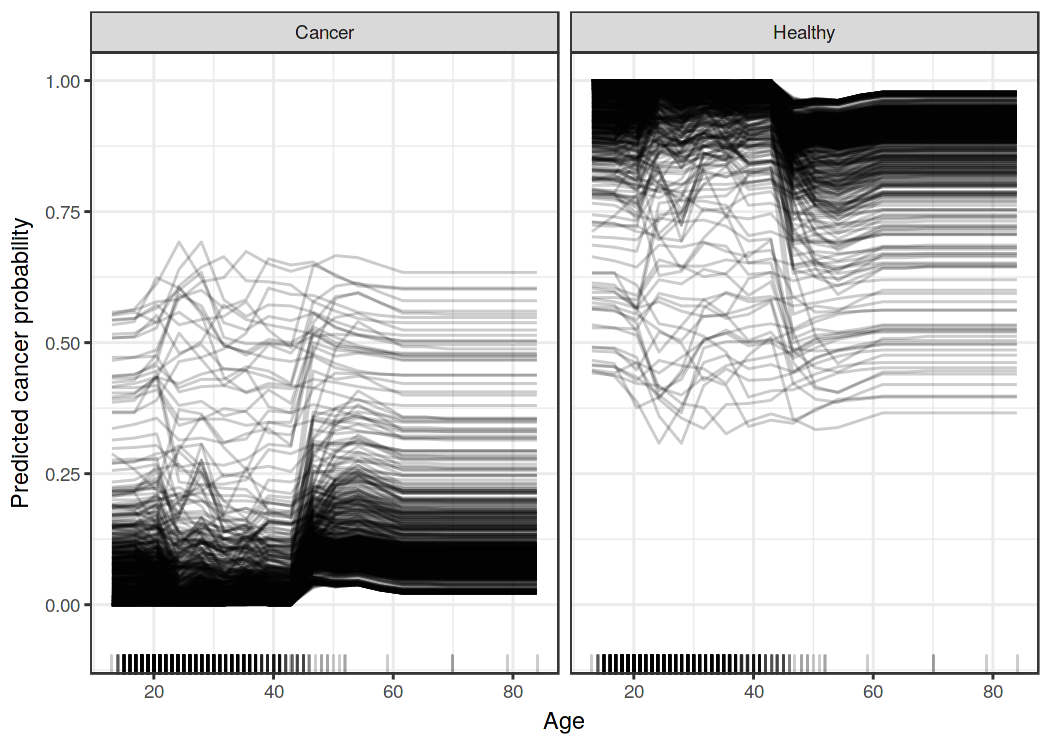
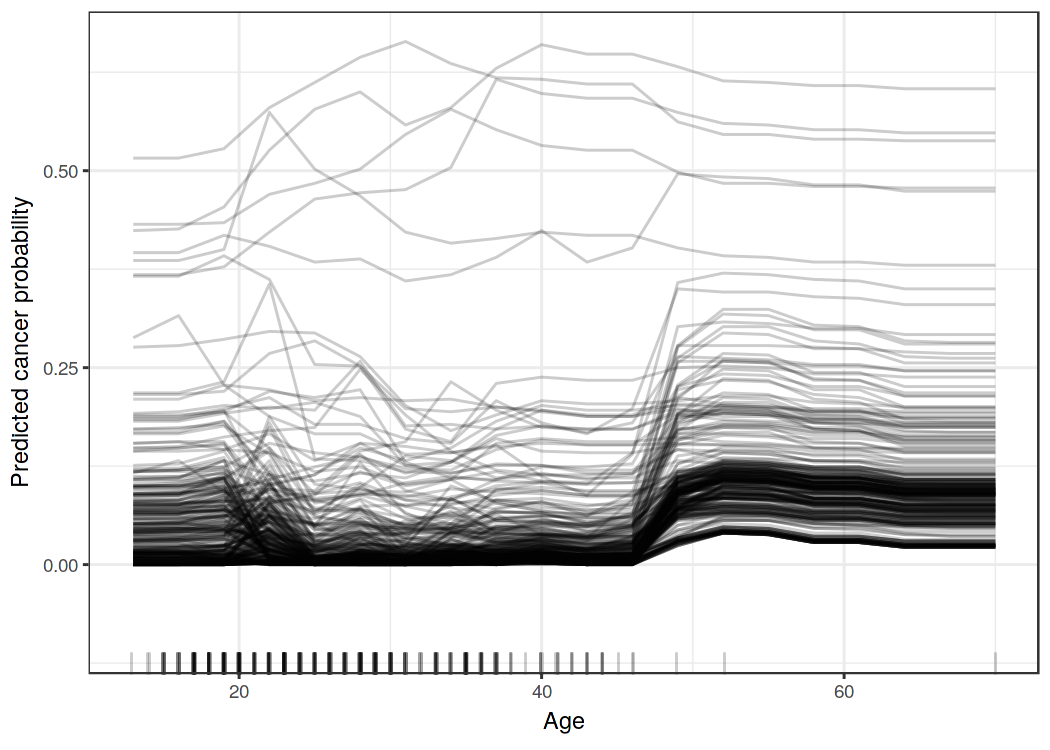
publish

diff --git a/manuscript/05.3-agnostic-ice.md b/manuscript/05.3-agnostic-ice.md
@@ -4,84 +4,81 @@
 
 ## Individual Conditional Expectation (ICE) {#ice}
 
-Individual Conditional Expectation (ICE) plots draw a line per instance that shows how the instance's prediction changes when a feature changes. 
+Individual Conditional Expectation (ICE) plots display one line per instance that shows how the instance's prediction changes when a feature changes. 
 
 The partial dependence plot for the average effect of a feature is a global method because it does not focus on specific instances, but on an overall average.
 The equivalent to a PDP for individual data instances is called individual conditional expectation (ICE) plot (Goldstein et al. 2015[^Goldstein2015]).
-An ICE plot visualizes the dependence of the prediction on a feature for *each* instance separately, resulting in multiple lines, one for each instance, compared to one line in partial dependence plots.
+An ICE plot visualizes the dependence of the prediction on a feature for *each* instance separately, resulting in one line per instance, compared to one line overall in partial dependence plots.
 A PDP is the average of the lines of an ICE plot.
 The values for a line (and one instance) can be computed by keeping all other features the same, creating variants of this instance by replacing the feature's value with values from a grid and making predictions with the black box model for these newly created instances.
 The result is a set of points for an instance with the feature value from the grid and the respective predictions.
 
-So, what's the point of looking at individual expectations instead of partial dependencies?
+What's the point of looking at individual expectations instead of partial dependencies?
 Partial dependence plots can obscure a heterogeneous relationship created by interactions.
 PDPs can show you what the average relationship between a feature and the prediction looks like.
 This only works well if the interactions between the features for which the PDP is calculated and the other features are weak.
 In case of interactions, the ICE plot will provide much more insight.
 
 A more formal definition:
-In ICE plots, for each instance in {$$}\{(x_{S_i},x_{C_i})\}_{i=1}^N{/$$} the curve {$$}\hat{f}_S^{(i)}{/$$} is plotted against {$$}x^{(i)}_{S}{/$$}, while {$$}x^{(i)}_{C}{/$$} remains  fixed.
+In ICE plots, for each instance in {$$}\{(x_{S}^{(i)},x_{C}^{(i)})\}_{i=1}^N{/$$} the curve {$$}\hat{f}_S^{(i)}{/$$} is plotted against {$$}x^{(i)}_{S}{/$$}, while {$$}x^{(i)}_{C}{/$$} remains  fixed.
 
 ### Examples
 
-Let us go back to the [cervical cancer dataset](#cervical) and see how the prediction of each instance is associated with the feature 'Age'.
-The model we will analyze is a random forest that predicts the probability of cancer for a woman given risk factors.
+Let's go back to the [cervical cancer dataset](#cervical) and see how the prediction of each instance is associated with the feature "Age".
+We will analyze a random forest that predicts the probability of cancer for a woman given risk factors.
 In the [partial dependence plot](#pdp) we have seen that the cancer probability increases around the age of 50, but is this true for every woman in the dataset?
 The ICE plot reveals that for most women the age effect follows the average pattern of an increase at age 50, but there are some exceptions:
 For the few women that have a high predicted probability at a young age, the predicted cancer probability does not change much with age.
 
-![Individual conditional expectation plot of cervical cancer probability by age. Each line represents one woman. Most women with a low cancer probability in younger years see an increase in predicted cancer probability. Interestingly for some women with an estimated cancer probability greater than 0.4, the estimated probability does not change much with higher age.](images/ice-cervical-1.png)
+![ICE plot of cervical cancer probability by age. Each line represents one woman. For most women there is an increase in predicted cancer probability with increasing age. For some women with a predicted cancer probability above 0.4, the prediction does not change much at higher age.](images/ice-cervical-1.png)
 
-The next figures shows an ICE plot for the [bike rental prediction](#bike-data).
+The next figures shows ICE plots for the [bike rental prediction](#bike-data).
 The underlying prediction model is a random forest.
 
-![Individual conditional expectation plot of predicted bike count and weather conditions. The same effects can be observed as in the partial dependence plots.](images/ice-bike-1.png)
+![ICE plots of predicted bicycle rentals by weather conditions. The same effects can be observed as in the partial dependence plots.](images/ice-bike-1.png)
 
 All curves seem to follow the same course, so there are no obvious interactions.
 That means that the PDP is already a good summary of the relationships between the displayed features and the predicted number of bicycles
 
-
-
-
 #### Centered ICE Plot
 
 There is a problem with ICE plots:
-It can be hard to tell if the individual conditional expectation curves differ between individuals because they start at different predictions.
-A simple solution is to center the curves at a certain point in the feature and  display only the difference in the prediction.
-The resulting plot is called the centered ICE plot (c-ICE).
+Sometimes it can be hard to tell whether the ICE curves differ between individuals because they start at different predictions.
+A simple solution is to center the curves at a certain point in the feature and  display only the difference in the prediction to this point.
+The resulting plot is called centered ICE plot (c-ICE).
 Anchoring the curves at the lower end of the feature is a good choice.
 The new curves are defined as:
 
-{$$}\hat{f}_{cent}^{(i)}=\hat{f}^{(i)}-\mathbf{1}\hat{f}(x^{\text{*}},x^{(i)}_{C}){/$$}
+{$$}\hat{f}_{cent}^{(i)}=\hat{f}^{(i)}-\mathbf{1}\hat{f}(x^{a},x^{(i)}_{C}){/$$}
 
-where {$$}\mathbf{1}{/$$} is a vector of 1's with the appropriate number of dimensions (usually one or two), {$$}\hat{f}{/$$} is the fitted model and {$$}x^{\text{*}}{/$$} is the anchor point.
+where {$$}\mathbf{1}{/$$} is a vector of 1's with the appropriate number of dimensions (usually one or two), {$$}\hat{f}{/$$} is the fitted model and x^a^ is the anchor point.
 
 #### Example
 
 For example, take the cervical cancer ICE plot for age and center the lines on the youngest observed age:
 
-![Centered ICE plot for predicted  cancer probability by age. Lines are fixed to 0 at age 13 and each point shows the difference to the prediction at age 13. Compared to age 18, the predictions for most instances remain unchanged and see an increase of up to 20 %. A few cases show the opposite behavior: The predicted probability decreases with increasing age.](images/ice-cervical-centered-1.png)
+![Centered ICE plot for predicted  cancer probability by age. Lines are fixed to 0 at age 13. Compared to age 13, the predictions for most women remain unchanged until the age of 45 where the predicted probability increases.](images/ice-cervical-centered-1.png)
 
 The centered ICE plots make it easier to compare the curves of individual instances.
-This can be useful if we don't want to see the absolute change of a predicted value, but the difference in prediction compared to a fixed point of the feature range.
+This can be useful if we don't want to see the absolute change of a predicted value, but the difference in the prediction compared to a fixed point of the feature range.
 
-The same for the bicycle dataset and the count prediction model:
+Let's have a look at centered ICE plots for the bicycle rental prediction:
 
-![Centred individual conditional expectation plots of expected bike count by weather condition. The lines were fixed at value 0 for each feature and instance. The lines show the difference in prediction compared to the prediction with the respective feature value at its minimum feature value in the data.](images/ice-bike-centered-1.png)
+![Centered ICE plots of predicted number of bikes by weather condition. The lines show the difference in prediction compared to the prediction with the respective feature value at its observed minimum.](images/ice-bike-centered-1.png)
 
 #### Derivative ICE Plot
 
 Another way to make it visually easier to spot heterogeneity is to look at the individual derivatives of the prediction function with respect to a feature.
 The resulting plot is called the derivative ICE plot (d-ICE).
-The derivatives of a function (or curve) tell you in which direction changes occur and whether they occur at all.
+The derivatives of a function (or curve) tell you whether changes occur and in which direction they occur.
 With the derivative ICE plot, it is easy to spot ranges of feature values where the black box predictions change for (at least some) instances.
-If there is no interaction between the analyzed feature (S) and the other features (C), then the prediction function can be expressed as:
+If there is no interaction between the analyzed feature x~S~ and the other features x~C~, then the prediction function can be expressed as:
 
 {$$}\hat{f}(x)=\hat{f}(x_S,x_C)=g(x_S)+h(x_C),\quad\text{with}\quad\frac{\delta\hat{f}(x)}{\delta{}x_S}{/$$}
 
 Without interactions, the individual partial derivatives should be the same for all instances.
 If they differ, it is due to interactions and it becomes visible in the d-ICE plot.
-In addition to displaying the individual curves for the derivative of the prediction function with respect to the feature S, showing the standard deviation of the derivative helps to highlight regions in feature S with heterogeneity in the estimated derivatives.
+In addition to displaying the individual curves for the derivative of the prediction function with respect to the feature x~S~, showing the standard deviation of the derivative helps to highlight regions in feature x~S~ with heterogeneity in the estimated derivatives.
 The derivative ICE plot takes a long time to compute and is rather impractical.
 
 
@@ -90,7 +87,7 @@ The derivative ICE plot takes a long time to compute and is rather impractical.
 Individual conditional expectation curves are **even more intuitive to understand** than partial dependence plots.
 One line represents the predictions for one instance if we vary the feature of interest. 
 
-Unlike partial dependence plots ICE curves can **uncover heterogeneous relationships**.
+Unlike partial dependence plots, ICE curves can **uncover heterogeneous relationships**.
 
 ### Disadvantages 
 
@@ -104,7 +101,7 @@ The solution: Either add some transparency to the lines or draw only a sample of
 
 In ICE plots it might not be easy to **see the average**. 
 This has a simple solution:
-Simply combine individual conditional expectation curves with the partial dependence plot.
+Combine individual conditional expectation curves with the partial dependence plot.
 
 ### Software and Alternatives
 
@@ -113,3 +110,4 @@ Another R package that does something very similar to ICE is `condvis`.
 
 
 
+[^Goldstein2015]: Goldstein, Alex, et al. "Package ‘ICEbox’." (2017).

diff --git a/manuscript/10-references.md b/manuscript/10-references.md
@@ -15,25 +15,41 @@ Athalye, A., Engstrom, L., Ilyas, A., & Kwok, K. (2017). Synthesizing Robust Adv
 
 Biggio, B., & Roli, F. (2017). Wild Patterns: Ten Years After the Rise of Adversarial Machine Learning, 32–37. Retrieved from http://arxiv.org/abs/1712.03141
 
+Breiman, Leo. 2001. “Random Forests.” Machine Learning 45 (1). Springer: 5–32.
+
 Brown, T. B., Mané, D., Roy, A., Abadi, M., & Gilmer, J. (2017). Adversarial Patch, (Nips). Retrieved from http://arxiv.org/abs/1712.09665
 
 Cohen, W. (1995). Fast effective rule induction. Icml. Retrieved from http://www.inf.ufrgs.br/~alvares/CMP259DCBD/Ripper.pdf
 
 Cook, R. Dennis. "Detection of influential observation in linear regression." Technometrics 19.1 (1977): 15-18.
 
+Doshi-Velez, Finale, and Been Kim. 2017. "Towards A Rigorous Science of Interpretable Machine Learning," no. Ml: 1–13. http://arxiv.org/abs/1702.08608.
+
 Fanaee-T, Hadi, and Joao Gama. 2013. “Event Labeling Combining Ensemble Detectors and Background Knowledge.” Progress in Artificial Intelligence. Springer Berlin Heidelberg, 1–15. doi:10.1007/s13748-013-0040-3.
 
 Fernandes, Kelwin, Jaime S Cardoso, and Jessica Fernandes. 2017. “Transfer Learning with Partial Observability Applied to Cervical Cancer Screening.” In Iberian Conference on Pattern Recognition and Image Analysis, 243–50. Springer.
 
+Fisher, Aaron, Cynthia Rudin, and Francesca Dominici. 2018. “Model Class Reliance: Variable Importance Measures for any Machine Learning Model Class, from the ‘Rashomon’ Perspective.” http://arxiv.org/abs/1801.01489.
+
 Fokkema, Marjolein, and Benjamin Christoffersen. 2017. Pre: Prediction Rule Ensembles. https://CRAN.R-project.org/package=pre.
+
+Friedman, Jerome H, and Bogdan E Popescu. 2008. “Predictive Learning via Rule Ensembles.” The Annals of Applied Statistics. JSTOR, 916–54.
+
+Friedman, Jerome H. "Greedy function approximation: a gradient boosting machine." Annals of statistics (2001): 1189-1232.
 
 Friedman, Jerome, Trevor Hastie, and Robert Tibshirani. "The Elements of Statistical Learning". 2009. www.web.stanford.edu/~hastie/ElemStatLearn/
 
 Fuernkranz, J., Gamberger, D., & Lavrač, N. (2012). Foundations of Rule Learning. Foundations of Rule Learning. https://doi.org/10.1007/978-3-540-75197-7_2
 
+Goldstein, Alex, et al. "Package ‘ICEbox’." (2017).
+
 Goodfellow, I. J., Shlens, J., & Szegedy, C. (2014). Explaining and Harnessing Adversarial Examples, 1–11. http://doi.org/10.1109/CVPR.2015.7298594
 
+Greenwell, Brandon. M., Boehmke, B. C., & McCarthy, A. J. (2018). A Simple and Effective Model-Based Variable Importance Measure, 1–27. Retrieved from http://arxiv.org/abs/1805.04755
+
 Heider, Fritz, and Marianne Simmel. 1944. "An Experimental Study of Apparent Behavior." The American Journal of Psychology 57 (2). JSTOR: 243–59.
+
+Hooker, Giles (2004). Discovering Additive Structure in Black Box Functions. Knowledge Discovery and Data Mining, 575–580. http://doi.org/10.1145/1014052.1014122
 
 Kahneman, Daniel, and Amos Tversky. 1981. "The Simulation Heuristic." STANFORD UNIV CA DEPT OF PSYCHOLOGY.
 
@@ -49,7 +65,15 @@ Laugel, T., Lesot, M.-J., Marsala, C., Renard, X., & Detyniecki, M. (2017). Inve
 
 Letham, B., Rudin, C., McCormick, T. H., & Madigan, D. (2015). Interpretable classifiers using rules and bayesian analysis: Building a better stroke prediction model. Annals of Applied Statistics, 9(3), 1350–1371. https://doi.org/10.1214/15-AOAS848
 
+Lipton, Peter. "Contrastive Explanation." Royal Institute of Philosophy Supplements 27 (1990): 247-266.
+
+Lipton, Zachary C. "The Mythos of Model Interpretability." arXiv preprint arXiv:1606.03490, 2016.
+
+Lundberg, Scott, and Su-In Lee. 2016. “An unexpected unity among methods for interpreting model predictions,” no. Nips: 1–6. http://arxiv.org/abs/1611.07478.
+
 Martens, D., & Provost, F. (2014). Explaining Data-Driven Document Classifications. MIS Quarterly, 38(1), 73–99. http://doi.org/10.25300/MISQ/2014/38.1.04
+
+Miller, Tim. 2017. "Explanation in Artificial Intelligence: Insights from the Social Sciences." arXiv Preprint arXiv:1706.07269.
 
 Nickerson, Raymond S. 1998. "Confirmation Bias: A Ubiquitous Phenomenon in Many Guises." Review of General Psychology 2 (2). Educational Publishing Foundation: 175.
 
@@ -57,9 +81,19 @@ Papernot, Nicolas, et al. "Practical black-box attacks against machine learning.
 
 R. C. Holte (1993). Very simple classification rules perform well on most commonly used datasets. Machine Learning, 11, 63–91.
 
+Ribeiro, M.T., Singh, S. and Guestrin, C., 2016, August. Why should i trust you?: Explaining the predictions of any classifier. In Proceedings of the 22nd ACM SIGKDD International Conference on Knowledge Discovery and Data Mining (pp. 1135-1144). ACM.
+
 Ribeiro, Marco Tulio, Sameer Singh, and Carlos Guestrin (2018). "Anchors: High-precision model-agnostic explanations." AAAI Conference on Artificial Intelligence.
 
+Ribeiro, Marco Tulio, Sameer Singh, and Carlos Guestrin. 2016. "Model-Agnostic Interpretability of Machine Learning." ICML Workshop on Human Interpretability in Machine Learning, no. Whi.
+
+Shapley, Lloyd S. 1953. “A Value for N-Person Games.” Contributions to the Theory of Games 2 (28): 307–17.
+
 Staniak, Mateusz and Przemyslaw Biecek (2018). "Explanations of Model Predictions with live and breakDown Packages." _ArXiv e-prints_. 1804.01955, <URL: https://arxiv.org/abs/1804.01955>.
+
+Strumbelj, Erik, Igor Kononenko, Erik Štrumbelj, and Igor Kononenko. 2014. “Explaining prediction models and individual predictions with feature contributions.” Knowledge and Information Systems 41 (3): 647–65. doi:10.1007/s10115-013-0679-x.
+
+Su, J., Vargas, D. V., & Kouichi, S. (2017). One pixel attack for fooling deep neural networks. Retrieved from http://arxiv.org/abs/1710.08864
 
 Szegedy, C., Zaremba, W., Sutskever, I., Bruna, J., Erhan, D., Goodfellow, I., & Fergus, R. (2013). Intriguing properties of neural networks, 1–10. http://doi.org/10.1021/ct2009208
 
@@ -68,6 +102,8 @@ Wachter, S., Mittelstadt, B., & Russell, C. (2017). Counterfactual Explanations 
 Yang, H., Rudin, C., & Seltzer, M. (2016). Scalable Bayesian Rule Lists, 31. Retrieved from http://arxiv.org/abs/1602.08610
 
 Zhao, Qingyuan, and Trevor Hastie. "Causal interpretations of black-box models." Journal of Business & Economic Statistics, to appear. A DEPTH AND EXPOSURE TIME (2017).
+
+Štrumbelj, Erik, and Igor Kononenko. 2011. "A General Method for Visualizing and Explaining Black-Box Regression Models." In International Conference on Adaptive and Natural Computing Algorithms, 21–30. Springer.
 
 **R Packages Used for Examples**
 

diff --git a/manuscript/02-interpretability.md b/manuscript/02-interpretability.md
@@ -3,7 +3,7 @@
 # Interpretability {#interpretability}
 
 There is no mathematical definition of interpretability. 
-A (non-mathematical) definition I like is by Miller (2017)[^Miller2017]: 
+A (non-mathematical) definition I like by Miller (2017)[^Miller2017] is:
 **Interpretability is the degree to which a human can understand the cause of a decision.**
 Another one is: 
 **Interpretability is the degree to which a human can consistently predict the model's result** [^kim].
@@ -507,7 +507,7 @@ People focus more on abnormal causes to explain events (Kahnemann and Tversky, 1
 These are causes that had a small probability but nevertheless happened.
 The elimination of these abnormal causes would have greatly changed the outcome (counterfactual explanation).
 Humans consider these kinds of "abnormal" causes as good explanations.
-An example from Štrumbelj and Kononenko (2011)[^Strumbelj2011]:
+An example from Štrumbelj and Kononenko (2011)[^Strumbelj2011] is:
 Assume we have a dataset of test situations between teachers and students.
 Students attend a course and pass the course directly after successfully giving a presentation.
 The teacher has the option to additionally ask the student questions to test their knowledge.
